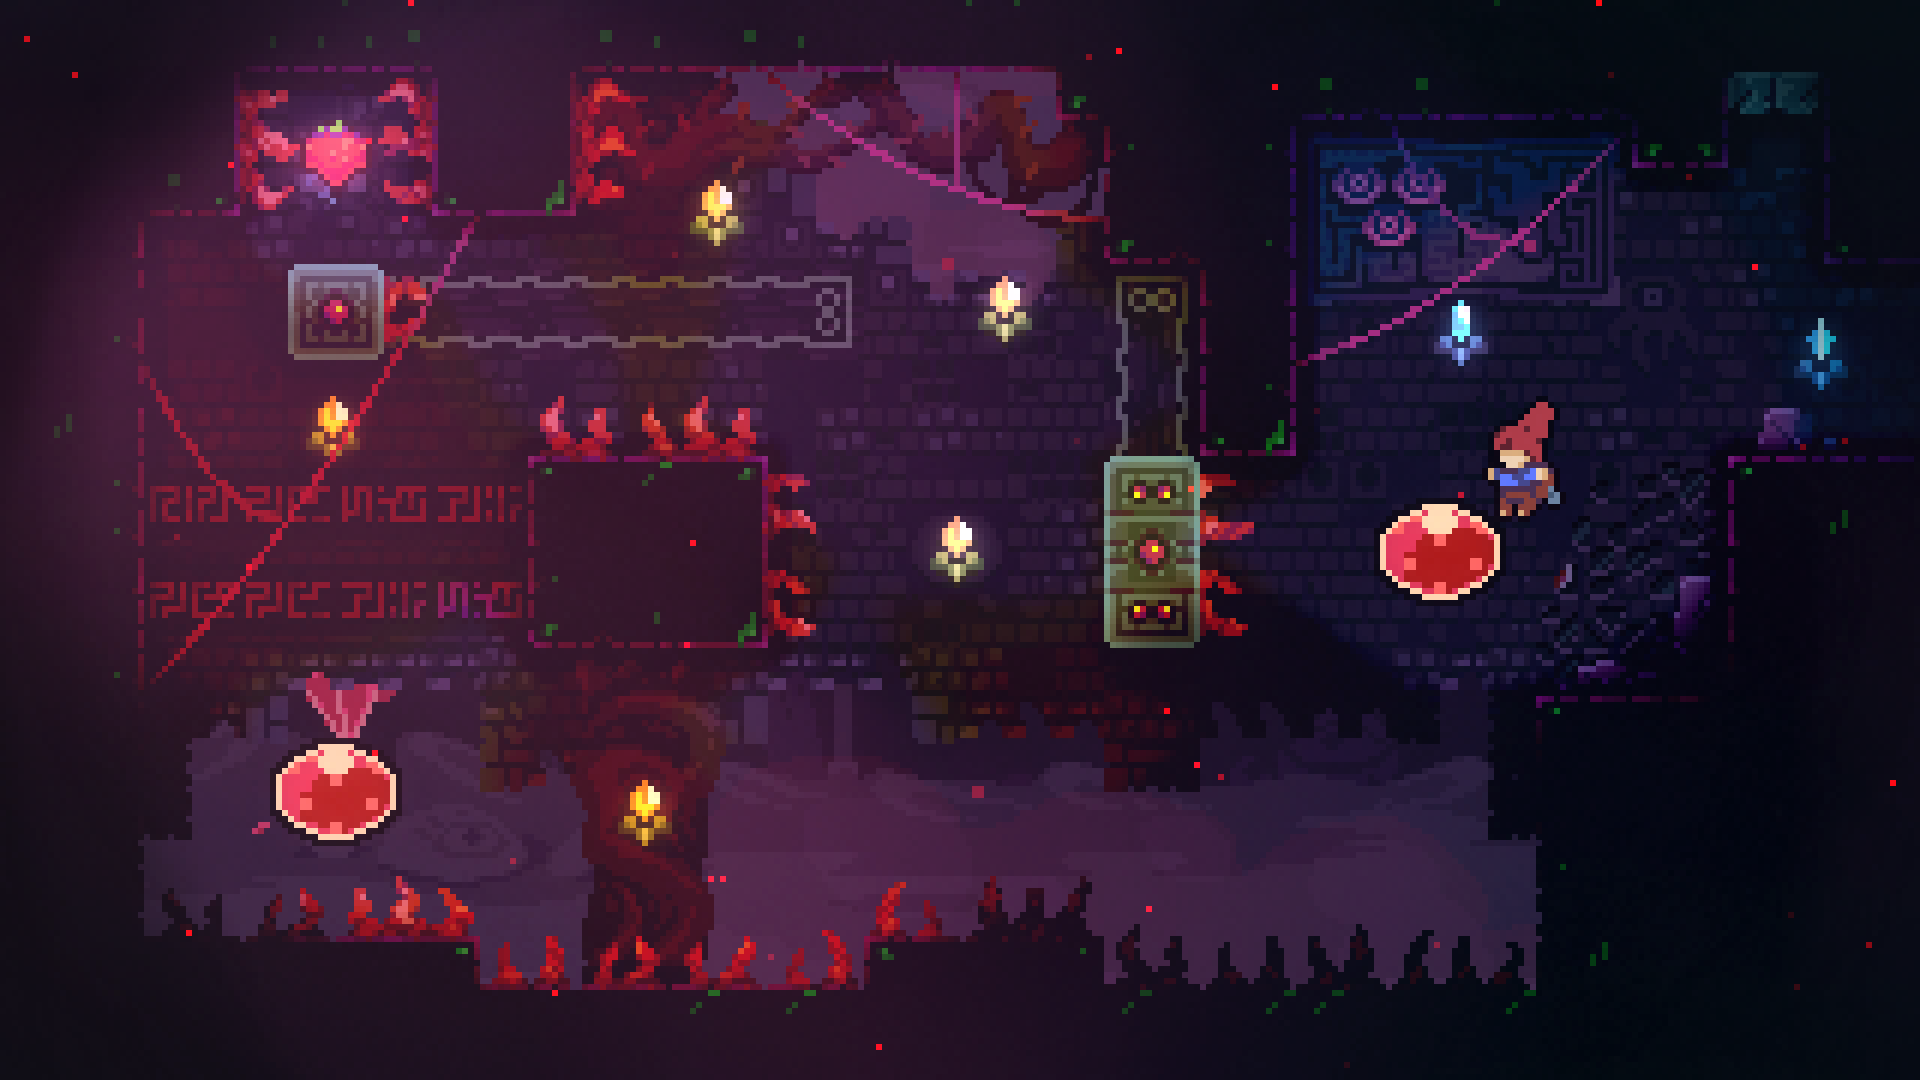
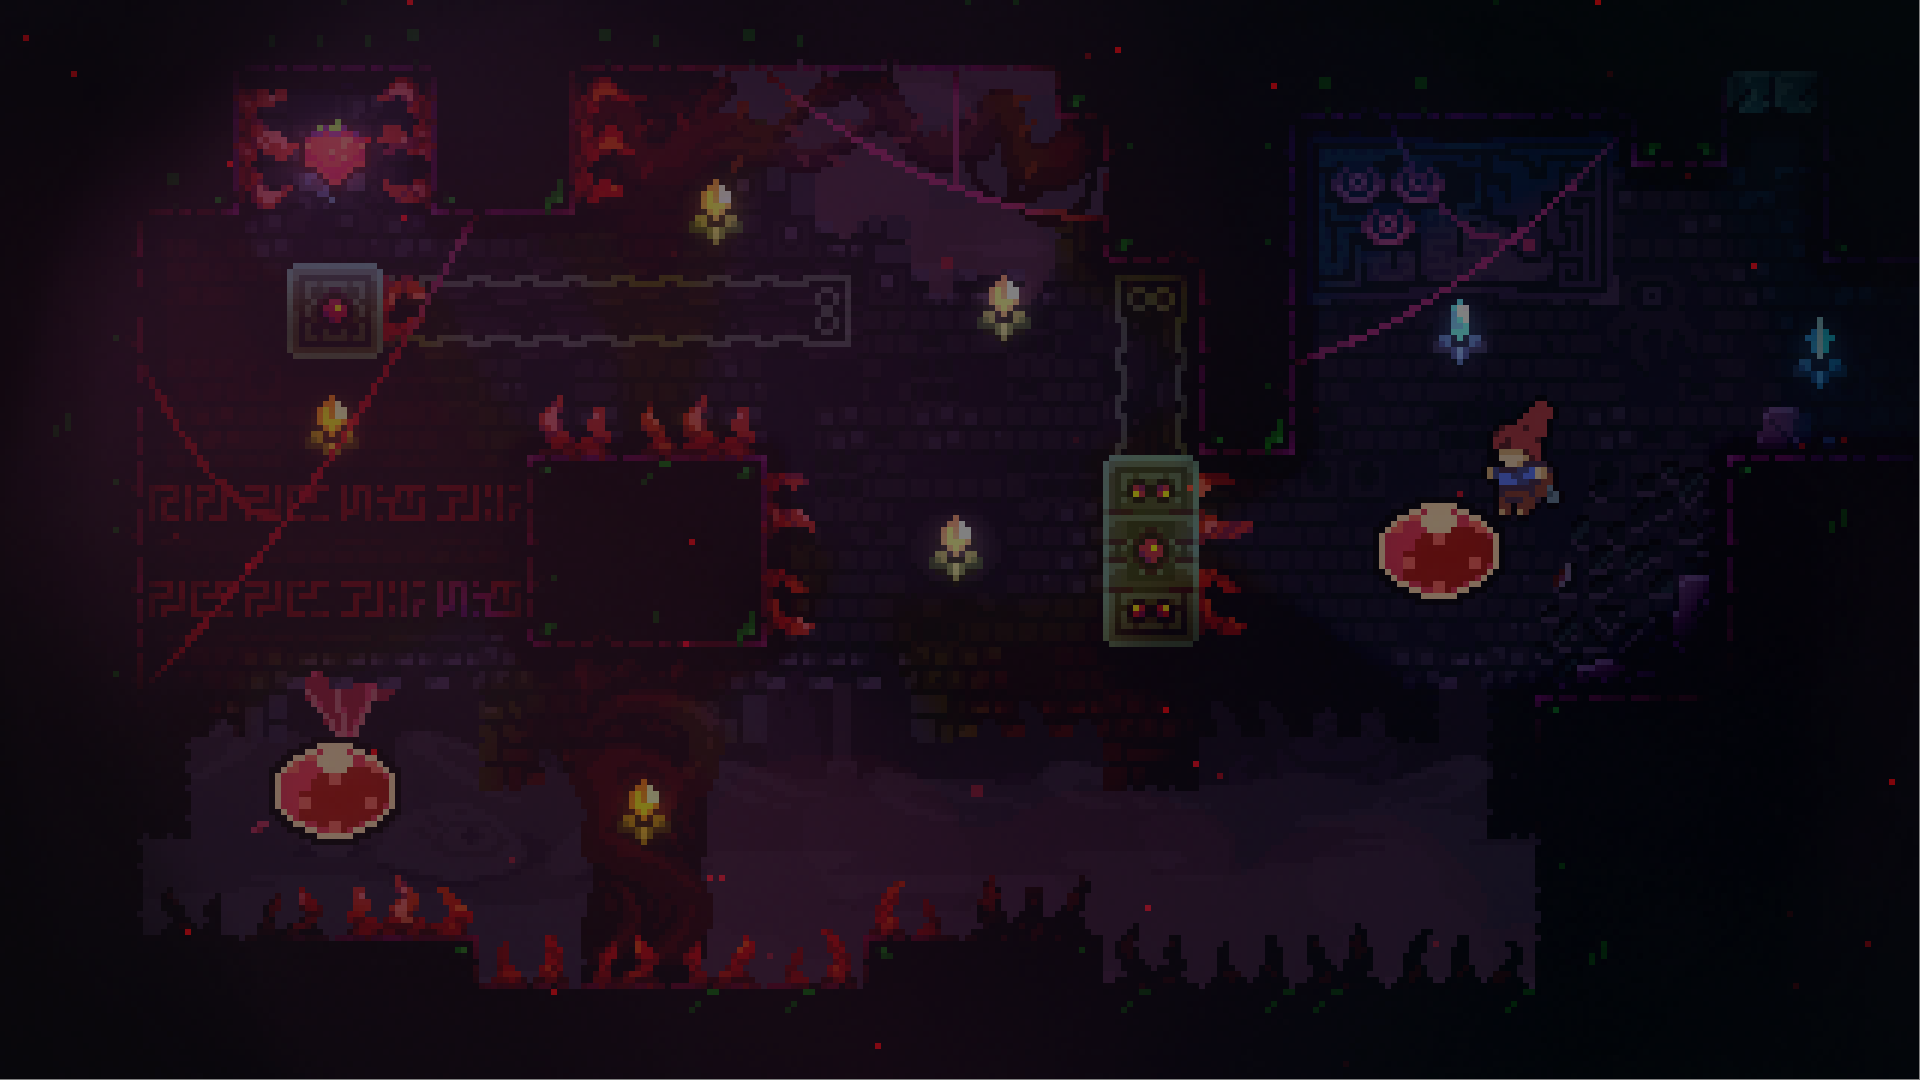
Helligkeit der Bilder manuell geändert, um den Filter herausnehmen zu können -> mehr Performance und Filter wird nicht mehr auf die middle-card angewendet.

diff --git a/index.html b/index.html
@@ -1,104 +1,122 @@
 <!DOCTYPE html>
 <html>
-  <head>
-    <meta charset="utf-8"/>
+
+<head>
+    <meta charset="utf-8" />
     <title>Grafikstile</title>
-    <link rel="stylesheet" type="text/css" href="css/bootstrap.css"/>
-    <link rel="stylesheet" type="text/css" href="css/jquery.fullpage.min.css"/>
-    <link rel="stylesheet" type="text/css" href="css/main.css"/>
+    <link rel="stylesheet" type="text/css" href="css/bootstrap.css" />
+    <link rel="stylesheet" type="text/css" href="css/jquery.fullpage.min.css" />
+    <link rel="stylesheet" type="text/css" href="css/main.css" />
 
     <script type="text/javascript" src="js/jquery-3.3.1.js"></script>
     <script type="text/javascript" src="js/jquery.fullpage.min.js"></script>
     <script type="text/javascript" src="js/bootstrap.min.js"></script>
 
     <script type="text/javascript" src="js/main.js"></script>
-  </head>
+</head>
 
-  <body>
+<body>
     <div id="fullpage">
-    	<div class="section" id="landing">
-          <div class="middle-card" id="landing-card">
-          </div>
-      </div>
-      <div class="section" id="pixelart">
-        <div class="middle-card" id="pixelart-card">
-          <h1 class="middle-card-header">PIXELART</h1>
+        <div class="section" id="landing">
+            <div class="middle-card" id="landing-card">
+            </div>
         </div>
-        <div id="pixelart-carousel" class="carousel slide" data-ride="carousel" data-pause="false" data-interval="10000">
-          <ol class="carousel-indicators">
-            <li data-target="#pixelart-carousel" data-slide-to="0" class="active"></li>
-            <li data-target="#pixelart-carousel" data-slide-to="1"></li>
-            <li data-target="#pixelart-carousel" data-slide-to="2"></li>
-          </ol>
-          <div class="carousel-inner">
-            <div class="carousel-item active carousel-item-fullimage" id="hyper_light_drifter">
+        <div class="section" id="pixelart">
+            <div class="middle-card" id="pixelart-card">
+                <h1 class="middle-card-header">PIXELART</h1>
             </div>
-            <div class="carousel-item carousel-item-fullimage" id="stardew_valley">
+            <div id="pixelart-carousel" class="carousel slide" data-ride="carousel" data-pause="false" data-interval="10000">
+                <ol class="carousel-indicators">
+                    <li data-target="#pixelart-carousel" data-slide-to="0" class="active"></li>
+                    <li data-target="#pixelart-carousel" data-slide-to="1"></li>
+                    <li data-target="#pixelart-carousel" data-slide-to="2"></li>
+                </ol>
+                <div class="carousel-inner">
+                    <div class="carousel-item active carousel-item-fullimage" id="hyper_light_drifter">
+                        <div class="carousel-caption">
+                            <h5>Hyper Light Drifter</h5>
+                            <p>Lorem ipsum dolor sit amet, consetetur sadipscing elitr, sed diam nonumy eirmod tempor invidunt
+                                ut labore et dolore magna aliquyam erat, sed diam voluptua. At vero eos et accusam et justo
+                                duo dolores et ea rebum. Stet clita kasd gubergren, no sea takimata sanctus est Lorem ipsum
+                                dolor sit amet. Lorem ipsum dolor sit amet, consetetur sadipscing elitr, sed diam nonumy
+                                eirmod tempor invidunt ut labore et dolore magna aliquyam erat, sed diam voluptua. At vero
+                                eos et accusam et justo duo dolores et ea rebum. Stet clita kasd gubergren, no sea takimata
+                                sanctus est Lorem ipsum dolor sit amet.</p>
+                        </div>
+                    </div>
+                    <div class="carousel-item carousel-item-fullimage" id="stardew_valley">
+                        <div class="carousel-caption d-none d-md-block">
+                            <h5>Stardew Valley</h5>
+                        </div>
+                    </div>
+                    <div class="carousel-item carousel-item-fullimage" id="celeste">
+                        <div class="carousel-caption d-none d-md-block">
+                            <h5>Celeste</h5>
+                        </div>
+                    </div>
+                </div>
+                <a class="carousel-control-prev" href="#pixelart-carousel" role="button" data-slide="prev">
+                    <span class="carousel-control-prev-icon"></span>
+                </a>
+                <a class="carousel-control-next" href="#pixelart-carousel" role="button" data-slide="next">
+                    <span class="carousel-control-next-icon"></span>
+                </a>
             </div>
-            <div class="carousel-item carousel-item-fullimage" id="celeste">
-            </div>
-          </div>
-          <a class="carousel-control-prev" href="#pixelart-carousel" role="button" data-slide="prev">
-           <span class="carousel-control-prev-icon"></span>
-         </a>
-         <a class="carousel-control-next" href="#pixelart-carousel" role="button" data-slide="next">
-           <span class="carousel-control-next-icon"></span>
-         </a>
         </div>
-      </div>
-    	<div class="section" id="hand-drawn">
-        <div class="middle-card" id="hand-drawn-card">
-          <h1 class="middle-card-header">HAND-DRAWN</h1>
+        <div class="section" id="hand-drawn">
+            <div class="middle-card" id="hand-drawn-card">
+                <h1 class="middle-card-header">HAND-DRAWN</h1>
+            </div>
+            <div id="hand-drawn-carousel" class="carousel slide" data-ride="carousel" data-pause="false" data-interval="10000">
+                <ol class="carousel-indicators">
+                    <li data-target="#hand-drawn-carousel" data-slide-to="0" class="active"></li>
+                    <li data-target="#hand-drawn-carousel" data-slide-to="1"></li>
+                    <li data-target="#hand-drawn-carousel" data-slide-to="2"></li>
+                </ol>
+                <div class="carousel-inner">
+                    <div class="carousel-item active carousel-item-fullimage" id="dont_starve">
+                    </div>
+                    <div class="carousel-item carousel-item-fullimage" id="ori_and_the_blind_forest">
+                    </div>
+                    <div class="carousel-item carousel-item-fullimage" id="rayman">
+                    </div>
+                </div>
+                <a class="carousel-control-prev" href="#hand-drawn-carousel" role="button" data-slide="prev">
+                    <span class="carousel-control-prev-icon"></span>
+                </a>
+                <a class="carousel-control-next" href="#hand-drawn-carousel" role="button" data-slide="next">
+                    <span class="carousel-control-next-icon"></span>
+                </a>
+            </div>
         </div>
-        <div id="hand-drawn-carousel" class="carousel slide" data-ride="carousel" data-pause="false" data-interval="10000">
-            <ol class="carousel-indicators">
-                <li data-target="#hand-drawn-carousel" data-slide-to="0" class="active"></li>
-                <li data-target="#hand-drawn-carousel" data-slide-to="1"></li>
-                <li data-target="#hand-drawn-carousel" data-slide-to="2"></li>
-              </ol>
-          <div class="carousel-inner">
-            <div class="carousel-item active carousel-item-fullimage" id="dont_starve">
+        <div class="section" id="flat">
+            <div class="middle-card" id="flat-card">
+                <h1 class="middle-card-header">FLAT</h1>
             </div>
-            <div class="carousel-item carousel-item-fullimage" id="ori_and_the_blind_forest">
+            <div id="flat-carousel" class="carousel slide" data-ride="carousel" data-pause="false" data-interval="10000">
+                <ol class="carousel-indicators">
+                    <li data-target="#flat-carousel" data-slide-to="0" class="active"></li>
+                    <li data-target="#flat-carousel" data-slide-to="1"></li>
+                    <li data-target="#flat-carousel" data-slide-to="2"></li>
+                </ol>
+                <div class="carousel-inner">
+                    <div class="carousel-item active carousel-item-fullimage" id="a_night_in_the_woods">
+                    </div>
+                    <div class="carousel-item carousel-item-fullimage" id="dumb_ways_to_die">
+                    </div>
+                    <div class="carousel-item carousel-item-fullimage" id="loco_roco">
+                    </div>
+                </div>
+                <a class="carousel-control-prev" href="#flat-carousel" role="button" data-slide="prev">
+                    <span class="carousel-control-prev-icon"></span>
+                </a>
+                <a class="carousel-control-next" href="#flat-carousel" role="button" data-slide="next">
+                    <span class="carousel-control-next-icon"></span>
+                </a>
             </div>
-            <div class="carousel-item carousel-item-fullimage" id="rayman">
-            </div>
-          </div>
-          <a class="carousel-control-prev" href="#hand-drawn-carousel" role="button" data-slide="prev">
-            <span class="carousel-control-prev-icon"></span>
-          </a>
-          <a class="carousel-control-next" href="#hand-drawn-carousel" role="button" data-slide="next">
-            <span class="carousel-control-next-icon"></span>
-          </a>
         </div>
-      </div>
-      <div class="section" id="flat">
-        <div class="middle-card" id="flat-card">
-          <h1 class="middle-card-header">FLAT</h1>
-        </div>
-        <div id="flat-carousel" class="carousel slide" data-ride="carousel" data-pause="false" data-interval="10000">
-            <ol class="carousel-indicators">
-                <li data-target="#flat-carousel" data-slide-to="0" class="active"></li>
-                <li data-target="#flat-carousel" data-slide-to="1"></li>
-                <li data-target="#flat-carousel" data-slide-to="2"></li>
-              </ol>
-          <div class="carousel-inner">
-            <div class="carousel-item active carousel-item-fullimage" id="a_night_in_the_woods">
-            </div>
-            <div class="carousel-item carousel-item-fullimage" id="dumb_ways_to_die">
-            </div>
-            <div class="carousel-item carousel-item-fullimage" id="loco_roco">
-            </div>
-          </div>
-          <a class="carousel-control-prev" href="#flat-carousel" role="button" data-slide="prev">
-            <span class="carousel-control-prev-icon"></span>
-          </a>
-          <a class="carousel-control-next" href="#flat-carousel" role="button" data-slide="next">
-            <span class="carousel-control-next-icon"></span>
-          </a>
-        </div>
-      </div>
-    	<div class="section">Some section</div>
+        <div class="section">Some section</div>
     </div>
-  </body>
+</body>
+
 </html>

diff --git a/css/main.css b/css/main.css
@@ -3,7 +3,7 @@
 }
 
 #stardew_valley {
-  background-image: url("../images/pixelart/Stardew_Valley.jpg");
+  background-image: url("../images/pixelart/Stardew_Valley.png");
 }
 
 #celeste {
@@ -11,15 +11,15 @@
 }
 
 #dont_starve {
-  background-image: url("../images/hand-drawn/Dont_Starve.jpg");
+  background-image: url("../images/hand-drawn/Dont_Starve.png");
 }
 
 #ori_and_the_blind_forest {
-  background-image: url("../images/hand-drawn/Ori_And_The_Blind_Forest.jpg");
+  background-image: url("../images/hand-drawn/Ori_And_The_Blind_Forest.png");
 }
 
 #rayman {
-  background-image: url("../images/hand-drawn/Rayman.jpg");
+  background-image: url("../images/hand-drawn/Rayman.png");
 }
 
 #a_night_in_the_woods {
@@ -31,14 +31,13 @@
 }
 
 #loco_roco {
-  background-image: url("../images/flat/Loco_Roco.jpg");
+  background-image: url("../images/flat/Loco_Roco.png");
 }
 
 div.carousel-item-fullimage {
   background-position: center;
   width: 100%;
   height: 100%;
-  filter: brightness(50%);
 }
 
 div.carousel-inner {
@@ -75,7 +74,7 @@ div.carousel-inner {
 }
 
 #pixelart-card {
-  background-color: rgba(255,255,255, 0.9);
+  background-color: rgba(255,255,255, 0.5);
 }
 
 #hand-drawn-card {
